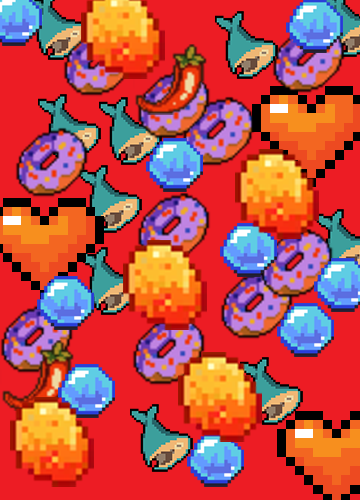
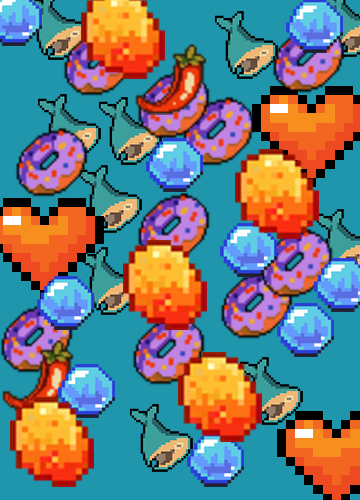
Pick blue background

diff --git a/js/index.js b/js/index.js
@@ -42,21 +42,18 @@ window.onload = init;
 function init() 
 {   
 
-    // Fun little 50/50 on the background color.
-    document.getElementById("bgItems").src = "images/bg-intro-items" + ((Math.random() > 0.5) ? "" : "-2") + ".png";
-
     intro();
 
     start = document.getElementById("start");
     canvas = document.getElementById("game");
-    context = canvas.getContext("2d");//, { willReadFrequently: true });
+    context = canvas.getContext("2d");
 
     //  background canvas
     bgCanvas = document.getElementById("bgCanvas");
     bgContext = bgCanvas.getContext("2d"); 
 
     playerCanvas = document.getElementById("playerCanvas");
-    playerContext = playerCanvas.getContext("2d", { willReadFrequently: true });
+    playerContext = playerCanvas.getContext("2d", { willReadFrequently: true }); // willReadFrequently=true - for the shader
 
     // gui canvas for displaying score
     guiCanvas = document.getElementById('guiCanvas');

diff --git a/index.html b/index.html
@@ -23,7 +23,7 @@
                     Your browser does not support the HTML5 canvas tag.
                 </canvas>
                 <div id="intro">
-                    <img id="bgItems" alt="background intro image">
+                    <img id="bgItems" src="images/bg-intro-items.png" alt="background intro image">
                     <img id="splash" src="images/bg-intro.svg" alt="background intro">
                     <div id="container">
                         <img id="logo" src="images/ninja-cat-logo.svg" alt="Logo intro">
